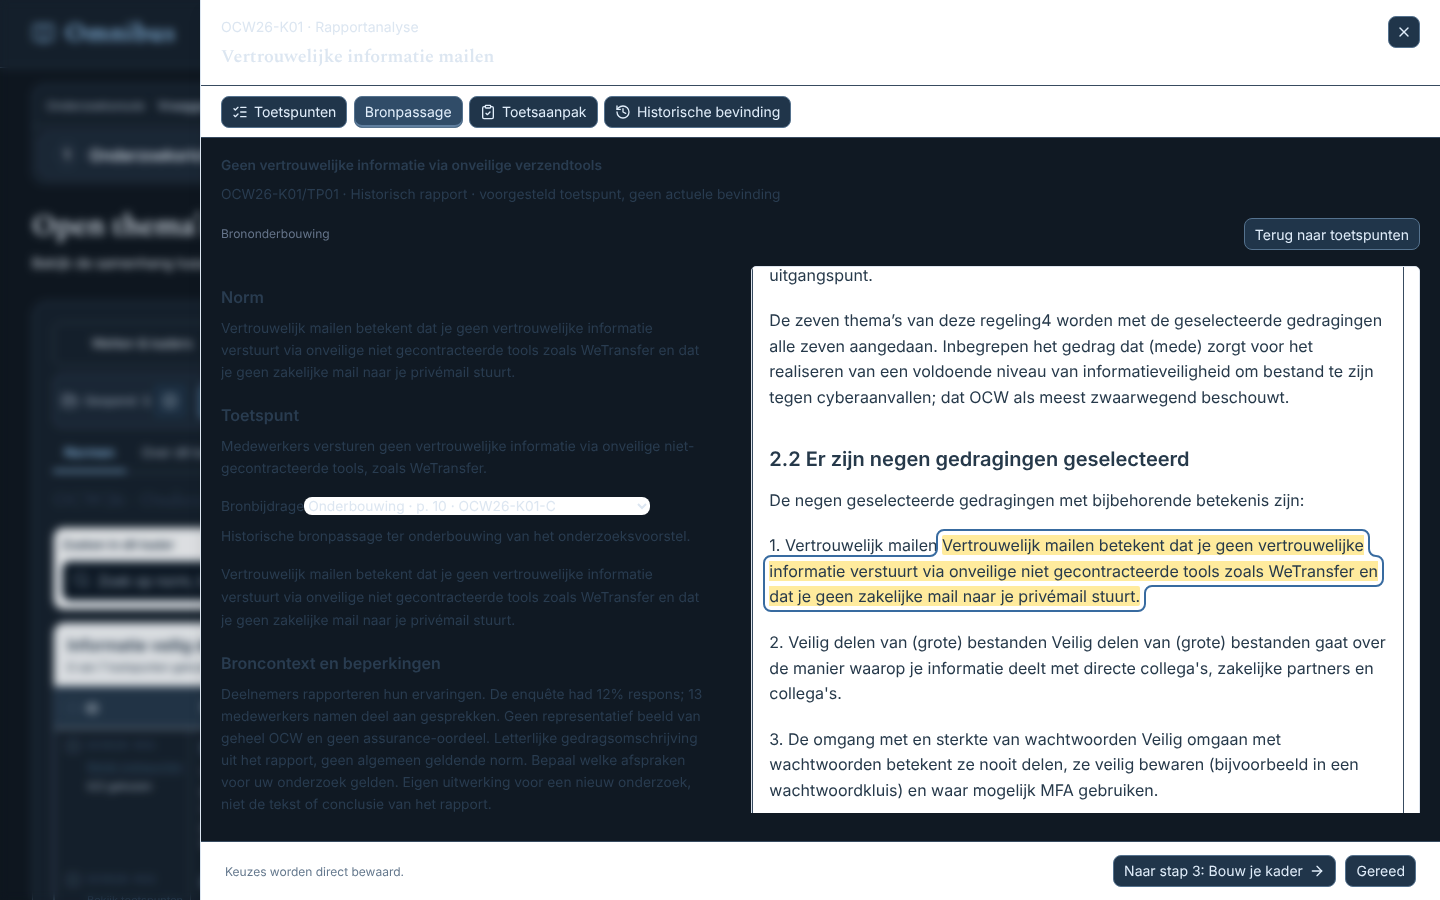
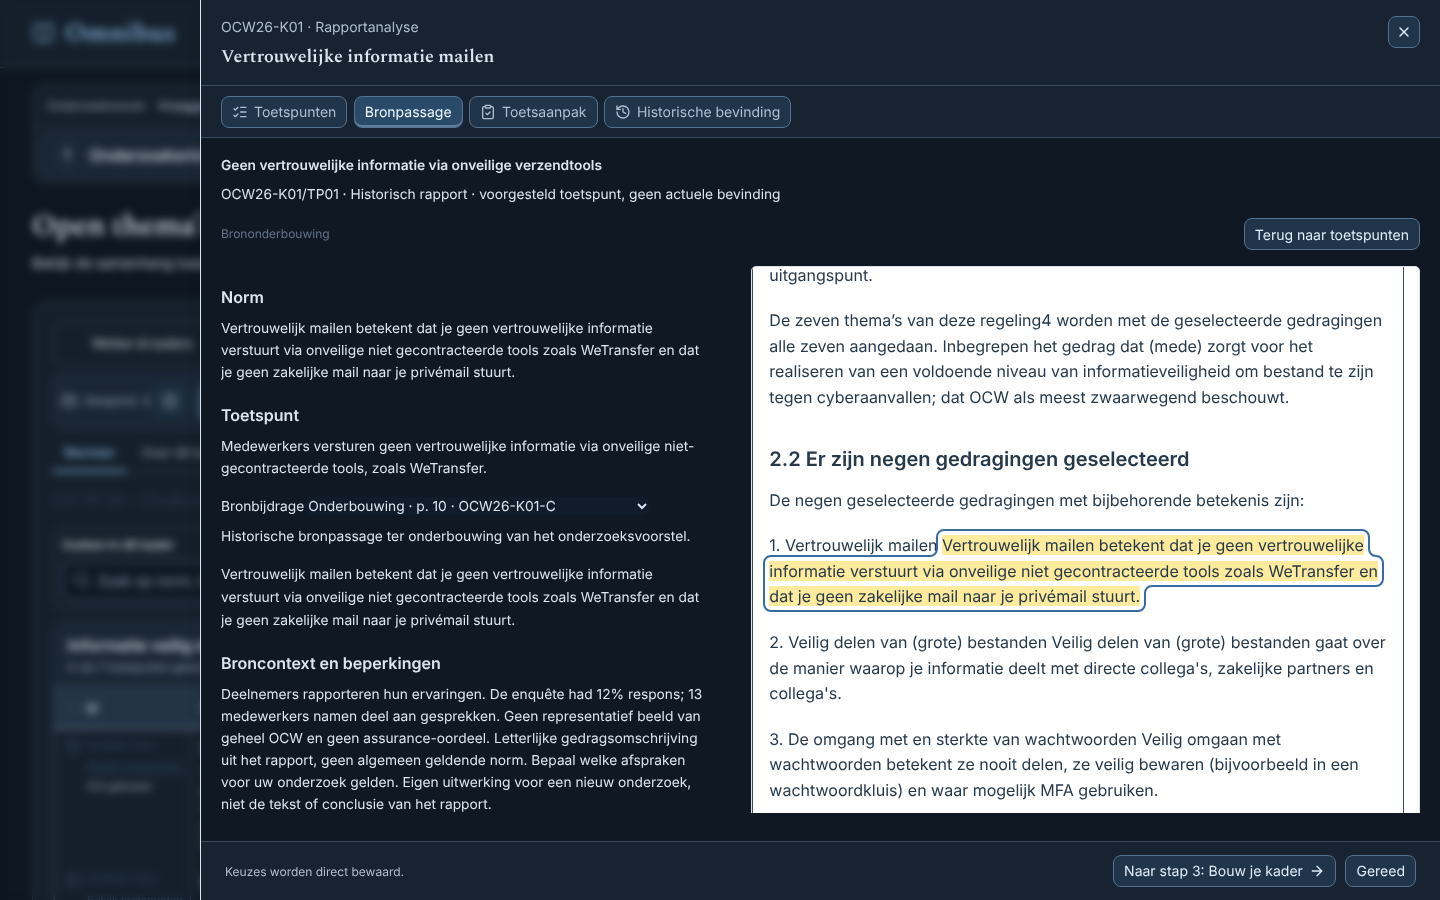
Donkere modus: geen witte vlakken meer in de normtabel en het normdetail
- Filters, groepen en de normtabel van de wet- en kaderviewer krijgen in
  donkere modus donkere vlakken (stap 2: Verzamel).
- Het normdetail (rapporten en kaders) is in donkere modus leesbaar:
  donkere kaarten in de kleur van doel, risico, beheersdoelstelling en
  beheersmaatregel, en lichte tekst. Het brondocument houdt zijn
  papierkleur.
- Invoervelden en keuzelijsten gebruiken de kleurtoken --rm-input, zodat
  ze in donkere modus niet meer wit zijn met lichte tekst.
- De donkere schermafbeeldingen van stap 2 en de bronpassage zijn
  opnieuw gemaakt.

Claude-Session: https://claude.ai/code/session_014QjVUqf6CZXmfGxtb2PVWK

Changed region(s): [[0.0312, 0.3111, 0.4688, 0.9022], [0.125, 0.0, 1.0, 0.2178], [0.125, 0.9333, 1.0, 1.0]]

diff --git a/app/appearance.css b/app/appearance.css
@@ -200,7 +200,7 @@ html[data-appearance=dark] .project-utility-dialog :is(.project-utility-close,.p
     --background:#101923; --foreground:#dce6f1; --primary:#94c8f5;
     --primary-foreground:#101923;
     --border:#384b60; --rm-accent:#83caf3; --rm-muted:#b0bfd0;
-    --rm-surface:#1d2b3b; --rm-selected:#29455f; --rm-control-border:#6884a0;
+    --rm-surface:#1d2b3b; --rm-selected:#29455f; --rm-control-border:#6884a0; --rm-input:#101c29;
     --rm-card-shadow:none;
   }
   html[data-appearance=dark] body { background:#101923; color:var(--foreground); }
@@ -257,6 +257,23 @@ html[data-appearance=dark] .project-utility-dialog :is(.project-utility-close,.p
   html[data-appearance=dark] .framework-app.compact-app .full-text-trigger { background:transparent; color:inherit; }
   html[data-appearance=dark] [data-slot=sheet-content]:is(.foundation-source-reader,.foundation-comparison) :is(input,select) { background:#101c29; color:var(--foreground); }
   html[data-appearance=dark] :is(.framework-app,[data-slot=alert-dialog-content],[data-slot=dialog-content],[data-slot=sheet-content]) button.text-destructive { background:#592f36; color:#ffcfce; border-color:#b77c83; }
+  /* Wet- en kaderviewer: filters, groepen en de normtabel kregen vaste lichte kleuren. */
+  html[data-appearance=dark] .framework-app :is(.law-group,.law-browse-filters,.matrix-explained-table) { background:#172330; color:var(--foreground); }
+  html[data-appearance=dark] .framework-app .law-group-heading { background:var(--rm-surface); }
+  html[data-appearance=dark] .framework-app thead { background:#25394d; }
+  html[data-appearance=dark] .framework-app :is(.law-group-location,.law-group-count) { color:var(--rm-muted); }
+  /* Normdetail (rapporten en kaders): vlakken, kaarten en tekst in donker; het brondocument houdt zijn papierkleur. */
+  html[data-appearance=dark] [data-slot=sheet-content].audit-detail.bd-pilot-detail.law-detail { background:#101923; color:var(--foreground); }
+  html[data-appearance=dark] .bd-pilot-detail :is([data-slot=sheet-header],.bd-panel-nav,.bd-footer,.bd-criterion,.bd-point,.law-active-point,.law-application,.law-parent-criterion) { background:#172330; color:var(--foreground); }
+  html[data-appearance=dark] .bd-pilot-detail .bd-point.is-chosen { background:#1d3a2e; border-color:#6fb08f; }
+  html[data-appearance=dark] .bd-pilot-detail .bd-context-card { background:#172330; color:var(--foreground); }
+  html[data-appearance=dark] .bd-pilot-detail .bd-context-card.bd-objective { background:color-mix(in srgb,#5f8fbf 16%,#172330); }
+  html[data-appearance=dark] .bd-pilot-detail .bd-context-card.bd-risk { background:color-mix(in srgb,#d7ad6b 14%,#172330); }
+  html[data-appearance=dark] .bd-pilot-detail .bd-context-card.bd-controlObjective { background:color-mix(in srgb,#9482b1 16%,#172330); }
+  html[data-appearance=dark] .bd-pilot-detail .bd-context-card.bd-control { background:color-mix(in srgb,#80a595 16%,#172330); }
+  html[data-appearance=dark] .bd-pilot-detail :is([data-slot=sheet-title],h2,h3,h4,strong,p,dd,li,label,blockquote):not(:is(.comparison-source,.report-reading) *) { color:var(--foreground); }
+  html[data-appearance=dark] .bd-pilot-detail :is([data-slot=sheet-description],small,.bd-panel-nav button:not([aria-pressed=true]),.bd-footer span):not(:is(.comparison-source,.report-reading) *) { color:var(--rm-muted); }
+  html[data-appearance=dark] .bd-pilot-detail .bd-panel-nav button[aria-pressed=true] { background:#294b69; color:#f0f7ff; }
   html[data-appearance=dark] [data-slot=dropdown-menu-content].research-menu { background:#172330; color:var(--foreground); border-color:var(--border); }
   html[data-appearance=dark] .research-menu [data-highlighted] { background:#29455f; color:var(--foreground); }
   html[data-appearance=dark] .research-menu [data-variant=destructive] { color:#ffcfce; }

diff --git a/app/rijksmap-theme.css b/app/rijksmap-theme.css
@@ -218,7 +218,7 @@ body {
 .framework-app #workflow-page-title:focus { outline: none; }
 .framework-app :is(input:not([type=checkbox]):not([type=radio]),textarea,select),
 [data-slot=sheet-content] :is(input:not([type=checkbox]):not([type=radio]),textarea,select) {
-  background: #fff;
+  background: var(--rm-input, #fff);
   color: var(--foreground);
   border-color: var(--rm-control-border);
   border-radius: .5rem;
